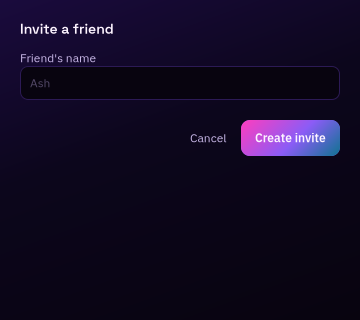
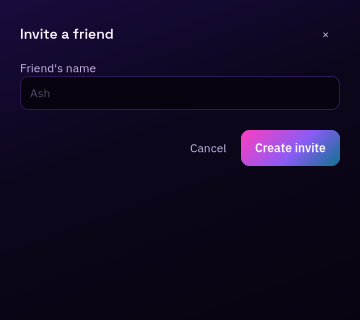
Added game presets and made the dialogs borderless
Publish a service now has a preset chooser with the shipped game list; selecting a preset fills the name, protocol, ports and hint. All dialogs use a custom undecorated header with a close button, so KDE's titlebar and Wayland icon no longer appear on invite, service, delete and approval dialogs.

diff --git a/internal/gtkui/style.css b/internal/gtkui/style.css
@@ -400,3 +400,41 @@ dropdown.field:hover {
   background-image: none;
   outline: none;
 }
+
+menubutton.preset-menu > button {
+  background-color: @ink;
+  background-image: none;
+  border: 1px solid @hairline;
+  border-radius: 8px;
+  color: @pale;
+  min-height: 32px;
+  padding: 0 9px;
+}
+
+menubutton.preset-menu > button:hover {
+  background-color: @raised;
+  border-color: @violet;
+}
+
+popover.background {
+  background-color: @surface;
+  border: 1px solid @hairline;
+  border-radius: 10px;
+}
+
+popover.background contents {
+  background-color: @surface;
+}
+
+popover button {
+  background: transparent;
+  background-image: none;
+  border: none;
+  border-radius: 6px;
+  color: @pale;
+  padding: 7px 10px;
+}
+
+popover button:hover {
+  background-color: @raised;
+}

diff --git a/internal/gtkui/dialogs.go b/internal/gtkui/dialogs.go
@@ -10,6 +10,7 @@ import (
 
 	apppkg "github.com/desynkro/lan-party/internal/app"
 	"github.com/desynkro/lan-party/internal/group"
+	"github.com/desynkro/lan-party/internal/preset"
 )
 
 func (u *probeUI) showCreateGroupDialog() {
@@ -236,7 +237,11 @@ func (u *probeUI) showInviteCodeDialog(g group.Group, name, code string) {
 
 func (u *probeUI) showAddServiceDialog(g group.Group) {
 	win, content := u.dialog("Publish a service")
-	win.SetDefaultSize(360, 420)
+	win.SetDefaultSize(360, 470)
+	content.Append(textLabel("Game preset", "form-label"))
+	presetArea := gtk.NewBox(gtk.OrientationVertical, 0)
+	content.Append(presetArea)
+	content.Append(gapBox(8))
 	content.Append(textLabel("Service name", "form-label"))
 	nameEntry := entry("Minecraft: Java Edition")
 	content.Append(nameEntry)
@@ -281,6 +286,33 @@ func (u *probeUI) showAddServiceDialog(g group.Group) {
 	hintEntry := entry("Direct Connect in Minecraft")
 	content.Append(hintEntry)
 	content.Append(gapBox(8))
+
+	presetList := gtk.NewBox(gtk.OrientationVertical, 0)
+	for _, item := range preset.All() {
+		item := item
+		button := gtk.NewButtonWithLabel(item.Name)
+		button.AddCSSClass("quiet")
+		button.SetHAlign(gtk.AlignStart)
+		button.ConnectClicked(func() {
+			nameEntry.SetText(item.Name)
+			portsEntry.SetText(group.FormatPorts(item.Ports))
+			hintEntry.SetText(item.Hint)
+			setProtocol(protoIndex(item.Proto))
+		})
+		presetList.Append(button)
+	}
+	presetScroll := gtk.NewScrolledWindow()
+	presetScroll.SetPolicy(gtk.PolicyNever, gtk.PolicyAutomatic)
+	presetScroll.SetChild(presetList)
+	presetScroll.SetSizeRequest(300, 260)
+	presetPopover := gtk.NewPopover()
+	presetPopover.SetHasArrow(false)
+	presetPopover.SetChild(presetScroll)
+	presetMenu := gtk.NewMenuButton()
+	presetMenu.SetLabel("Choose a preset")
+	presetMenu.AddCSSClass("preset-menu")
+	presetMenu.SetPopover(presetPopover)
+	presetArea.Append(presetMenu)
 	errLabel := textLabel("", "error")
 	errLabel.SetVisible(false)
 	content.Append(errLabel)
@@ -507,13 +539,23 @@ func (u *probeUI) dialog(title string) (*gtk.Window, *gtk.Box) {
 	win.SetModal(true)
 	win.SetResizable(false)
 	win.SetDefaultSize(360, 320)
+	win.SetDecorated(false)
 
 	content := gtk.NewBox(gtk.OrientationVertical, 0)
 	content.SetMarginTop(20)
 	content.SetMarginBottom(20)
 	content.SetMarginStart(20)
 	content.SetMarginEnd(20)
-	content.Append(textLabel(title, "card-title"))
+
+	header := gtk.NewBox(gtk.OrientationHorizontal, 8)
+	titleLabel := textLabel(title, "card-title")
+	titleLabel.SetHExpand(true)
+	header.Append(titleLabel)
+	close := gtk.NewButtonWithLabel("×")
+	close.AddCSSClass("quiet")
+	close.ConnectClicked(func() { win.Close() })
+	header.Append(close)
+	content.Append(header)
 	content.Append(gapBox(12))
 	win.SetChild(content)
 	return win, content

diff --git a/internal/gtkui/group.go b/internal/gtkui/group.go
@@ -499,3 +499,14 @@ func protoValue(index int) string {
 		return "both"
 	}
 }
+
+func protoIndex(proto string) int {
+	switch proto {
+	case "udp":
+		return 1
+	case "both":
+		return 2
+	default:
+		return 0
+	}
+}
